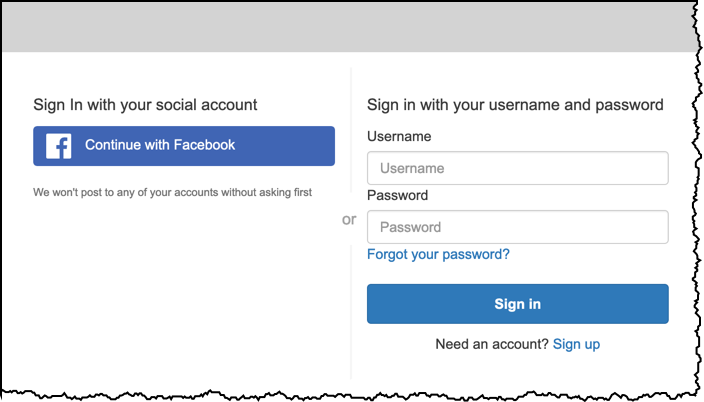
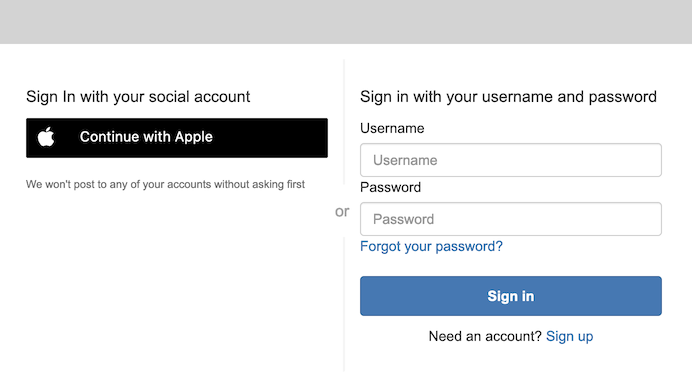
add Sign in with Apple instructions

diff --git a/BOA332/instructions/content/60_add_federation/10_signin_with_apple.md b/BOA332/instructions/content/60_add_federation/10_signin_with_apple.md
@@ -1,0 +1,144 @@
+---
+title : "Sign in With Apple"
+chapter : false
+weight : 10
+---
+
+Nowadays, most applications allow users to sign-in using a third-party identity, defined and managed outside of your app.  This is known as Identity Federation.  Amazon Cognito does support Identity Federation out of the box with [Login With Amazon](https://login.amazon.com/), [Login with Google](https://developers.google.com/identity/sign-in/web/sign-in), [Login with Facebook](https://developers.facebook.com/docs/facebook-login/), [Sign in with Apple](https://aws.amazon.com/blogs/security/how-to-set-up-sign-in-with-apple-for-amazon-cognito/), or any [OIDC](https://openid.net/connect/) or [SAMLv2](https://en.wikipedia.org/wiki/SAML_2.0) compliant identity provider.
+
+Just as for regular sign in flow, you can chose to present to your customers the Cognito Hosted UI or to build your own.  In this workshop, we chose to use the hosted UI because it handles most of the complexities of the OAuth flow for you.
+
+In this section, we're going to add a "Sign in With Apple" button to our application.  Because we are using the Cognito hosted web user interface, there is no code change required to add "Sign in With Apple" or "Login with xxx". This is a two steps process:
+
+- we use our developer account on Apple Developer's portal and we configure "Sign in With Apple" for this application. This involves registering our app and the Cognito URLs on Apple Developer portal, and generate and download a private key to be included in Cognito's configuration.
+
+- we update the Amplify configuration to add Apple as an identity provider.
+
+{{% notice warning %}}
+You must have an account on Apple Developer's portal to continue this section. You can sign in using your Apple ID, the same you are using to connect to iCloud, iMessage, and the likes. Or you can signup and create a free account at [https://appleid.apple.com/account](https://appleid.apple.com/account)
+{{% /notice %}}
+
+## Configure Sign in With Apple on Apple Developer portal
+
+This is a multi-steps process.  First, we are going to create an **App Identifier** for our app. Second, we are going to create a Sign in with Apple **Service Identifier** and configure it with the URLs of our Cognito server. Finally, we are going to **create a secret key** to be shared between Apple and Cognito.
+
+These three steps are done on the Apple Developer's portal.
+
+### Create an Application Identifier
+
+- Using your favorite browser, navigate to Apple Developer's portal at [https://developer.apple.com](https://developer.apple.com). Select the **Account** link on the top right side. Authenticate using your Apple ID credentials.
+
+- On the main page, select **Identifiers* (the second option on the second column).
+
+![Signin with Apple 01](/images/60-10-signin-apple-01.png)
+
+- Select the ⊕ sign next to **Identifiers** to add an identifier for this app.
+
+![Signin with Apple 02](/images/60-10-signin-apple-02.png)
+
+- On the **Register a new identifier** page, ensure **App IDs** is selected and select **Continue**.
+
+- On the **Register a new identifier > Select a type** page, ensure **App* is selected (the default), and select **Continue**.
+
+- Enter "Amplify iOS Workshop" as **Description** and "com.yourcompany.amplify.workshop.landmarks" as **Bundle ID**. Bundle IDs must be globally unique, be sure to chose an available name. Typically, it uses your company reverse DNS name.
+
+![Signin with Apple 03](/images/60-10-signin-apple-03.png)
+
+{{% notice warning %}}
+Take note of the **App ID Prefix (Team ID)** as we will pass this value to Amplify later on
+{{% /notice %}}
+
+- Scroll down that page and select **Sign in with Apple**.  Select **Continue** on the top of the page, then select **Register** on next page. The new identifier should appear in the list of identifiers.
+
+![Signin with Apple 04](/images/60-10-signin-apple-04.png)
+
+## Create a Service Identifier 
+
+Now that our app is registered, let's create a Service Identifier for Sigin with Apple.
+
+- On the **Certificates, Identifiers & Profile** page, select the **App IDs** from down menu on the top right side, then select **Services IDs**.
+
+![Signin with Apple 05](/images/60-10-signin-apple-05.png)
+
+- Select **Register an Services ID** blue button in the middle of the page.
+
+- On the **Register a new identifier** page, select **Services ID** (the second option), the select **Continue**.
+
+- Type "Amplify iOS Workshop" as **Description** and "com.yourcompany.amplify.workshop.landmarks.signin" as **Identifier**. Note that the Service ID here *must be* different than the Application ID created earlier.  I added ".signin" at the end. I then select **Continue**.
+
+![Signin with Apple 06](/images/60-10-signin-apple-06.png)
+
+- On the next page, select **Register**.
+
+- On the **Identifiers > Services ID** page, select the newly created service identifier for this workshop. Ensure **Sign in With Apple** is selected. Then select the **Configure** button.
+
+![Signin with Apple 07](/images/60-10-signin-apple-07.png)
+
+- On the **Web Authentication Configuration** page, select the **Amplify iOS Workshop** for the **Primary App ID**. Then enter the **Domains and Subdomains** value and the **Return URLs**.
+
+Amplify and Cognito shared these values when you added user authentication to the Cognito configuration. You can retrieve them back by typing the `amplify status` command in the project directory.  The value return contains a line like :
+
+```bash
+Hosted UI Endpoint: https://landmarks214c303c-214c303c-dev.auth.eu-central-1.amazoncognito.com/
+```
+
+The **Domains and Subdomains** value is the full host name **without** the `https://`.
+
+The **Return URLs** value is the full URL (**including** `https://`) with `/oauth2/idpresponse` added to it.
+
+![Signin with Apple 08](/images/60-10-signin-apple-08.png)
+
+{{% notice warning %}}
+Pay attention to these two values, an error will prevent Sign in with Apple to work.  Proceed to the next step when you have double checked your input values.
+{{% /notice %}}
+
+- Finally, select **Continue** and **Save** on the next two pages to finalize the Service ID configuration.
+
+## Create a shared private key 
+
+The last step consists in creating a provate key to be shared between Sign in with Apple and Cognito.
+
+-  On the **Certificates, Identifiers & Profile** page, select the **Keys** section on the left navigation menu.
+
+![Signin with Apple 09](/images/60-10-signin-apple-09.png)
+
+- Select **Create a key** blue button in the middle of the page.
+
+- On the **Register a New Key** page, enter a name for that key. I entered **Amplify iOS Workshop Sign In Key** as **Key Name**. Make sure **Sign in with Apple** is selected and select **Configure**.
+
+![Signin with Apple 10](/images/60-10-signin-apple-10.png)
+
+- On the **Configure Key** page, select the **Amplify iOS Workshop** as **Primary App ID**. Then select **Save**.
+
+![Signin with Apple 11](/images/60-10-signin-apple-11.png)
+
+- On next page, select **Continue**, then **Register** to finish creating the key.
+
+- On the **Download Your Key** page, select **Download** to download a `.p8` file containing the private key just created.
+
+![Signin with Apple 12](/images/60-10-signin-apple-12.png)
+
+{{% notice warning %}}
+Take a note of the **Key ID** value and the `.p8` private key, as we will pass them to amplify in the next step.
+{{% /notice %}}
+
+The `.p8` file you just downloaded contains a private key in PEM format. This is a multi-line base64 notation. In the next section, Amplify command line will ask for this value as a **single-line** input.
+
+To convert the `.p8` file content to a single line, you may use this bash command and paste the rwsult in the text editor.
+
+```bash
+cat ~/Downloads/AuthKey_*.p8 | tr -d '\n' | pbcopy 
+```
+
+### Collect all IDs required by Amplify
+
+At the end of this section, you must have kept four values to pass to Amplify command line. The values I collected from the above example are : 
+
+- the **Service ID** (the one finishing with `.signin`) : `com.yourcompany.amplify.workshop.landmarks.signin`
+- the **Team ID** : `56******`
+- the **Key ID** : `3HL6GKYJ5L`
+- the **private key** in one single line PEM format : `-----BEGIN PRIVATE KEY-----MIG...(redacted)...gty6P-----END PRIVATE KEY-----`
+
+The values will be different for you.
+
+Next step is to update AWS Amplify's configuration to include Sign in With Apple.

diff --git a/BOA332/instructions/content/60_add_federation/30_hosted_ui.md b/BOA332/instructions/content/60_add_federation/30_hosted_ui.md
@@ -1,8 +1,8 @@
-+++
-title = "Federation with Hosted UI"
-chapter = false
-weight = 30
-+++
+---
+title : "Federation with Hosted UI"
+chapter : false
+weight : 30
+---
 
 The easiest way to present users a GUI that includes identity federation is to use Cognito Hosted UI.  Cognito Hosted UI automatically adds "Continue With XXX" button based on the backend configuration.
 
@@ -11,11 +11,11 @@ You can test the Hosted UI by clicking on the link given by Amplify CLI at the e
 ```text
 https://amplifyiosworkshopaf0xxxxx-xxxxxxxx-dev.auth.eu-west-1.amazoncognito.com/login?response_type=code&client_id=58xxxxxxxxxxxxxxjhn&redirect_uri=landmarks://
 ```
-The Hosted UI now shows the "Login With Facebook" button.
+The Hosted UI now shows the "Continue With Apple" button.
 ![federation hosted ui](/images/60-30-hostedui-1.png)
 
 {{% notice tip %}}
-If you try to authenticate using Facebook using the above URI from a browser, you will be directed to Facebook's page and be able to enter your email address and password.  However the process will not terminate completly as the `redirect_uri` in the URL is an iOS only URI that we gave for our app (`landmarks://`)  The final redirection will only work in our mobile app.
+If you try to authenticate using Sign in with Apple using the above URI from a browser, you will be directed to Apple Sign in page and be able to enter your email address and password.  However the process will not terminate completly as the `redirect_uri` in the URL is an iOS-only URI that we gave for our app (`landmarks://`)  The final redirection will only work in our mobile app.
 {{% /notice %}}
 
 There is no code change to make this happen in the iOS app, as it using the Cognito hosted web UI too.
@@ -23,15 +23,22 @@ There is no code change to make this happen in the iOS app, as it using the Cogn
 ## Build and Test
 
 Build and launch the application to verify everything is working as expected. Click the **build** icon <i class="far fa-caret-square-right"></i> or press **&#8984;R**.
-![build](/images/20-10-xcode.png)
+![build](/images/20-20-xcode.png)
 
-If you are still authenticated, click **Sign Out** and click the user badge to sign in again. You should see the Amazon Cognito hosted UI.  Click **Continue With Facebook**, follow the Facebook login process, including accepting Amplify iOS Workshop app to access your profile data and, eventually, you should see the Landmark list.
-![customized drop in UI](/images/60-30-hostedui-2.png)
+If you are still authenticated, click **Sign Out** and click the user badge to sign in again. You should see the Amazon Cognito hosted UI.  Click **Continue With Apple**, follow the Apple login process, including multi-factor authentication and email settings and, eventually, you should see the Landmark list.
 
 At this stage, no code change is required if you decide to add other identity providers to your backend configuration.  The Hosted UI will automatically propose "Login with XXX" buttons based on the providers configured on the backend.  All the interactions between the identity provider and Cognito happen on the backend, no client code is involved.
 
+Hosted UI | Sign in sequence | MFA
+:---: | :---: |  :---: |
+![Auth Sequence 01](/images/60-30-hostedui-2.png) | ![Auth Sequence 02](/images/60-30-hostedui-3.png) | ![Auth Sequence 3](/images/60-30-hostedui-4.png) |
+**Trust Browser** | **Email Config** | **App launched**
+![Auth Sequence 04](/images/60-30-hostedui-5.png) | ![Auth Sequence 05](/images/60-30-hostedui-6.png) | ![Auth Sequence 6](/images/60-30-hostedui-7.png) |
+
 ## Checking Amazon Cognito Identities
 
-By choosing **Continue with Facebook**, you actually created a second identity in your backend.  As seen from Amazon Cognito, the user you created earlier and the Facebook federated user are two different identities.  You can connect to Amazon Cognito console, click on the user pool name (`amplifyiosworkshopxxxxx`), select **User and Groups** on the left menu to verify two identities have been created:
+By choosing **Continue with Apple**, you actually created a second identity to represent you in your backend.  As seen from Amazon Cognito, the user you created earlier and the Apple federated user are two different identities.  You can connect to Amazon Cognito console, click on the user pool name (`amplifyiosworkshopxxxxx`), select the **Users** tab to verify two identities have been created:
 
 ![cognito identities](/images/60-30-hostedui-30.png)
+
+Congrats! 🎉 You just added Sign in with Apple to your app, without changing a single line of code.

diff --git a/BOA332/instructions/content/60_add_federation/20_amplify.md b/BOA332/instructions/content/60_add_federation/20_amplify.md
@@ -1,15 +1,15 @@
-+++
-title = "Update Amplify"
-chapter = false
-weight = 20
-+++
+---
+title : "Update Amplify"
+chapter : false
+weight : 20
+---
 
-Amazon Cognito does support Identity Federation out of the box with [Login With Amazon](https://login.amazon.com/), [Login with Google](https://developers.google.com/identity/sign-in/web/sign-in), [Login with Facebook](https://developers.facebook.com/docs/facebook-login/), [Signin with Apple](https://aws.amazon.com/blogs/security/how-to-set-up-sign-in-with-apple-for-amazon-cognito/), or any [OIDC](https://openid.net/connect/) or [SAMLv2](https://en.wikipedia.org/wiki/SAML_2.0) compliant identity provider.  
+Amazon Cognito does support Identity Federation out of the box with [Login With Amazon](https://login.amazon.com/), [Login with Google](https://developers.google.com/identity/sign-in/web/sign-in), [Login with Facebook](https://developers.facebook.com/docs/facebook-login/), [Sign in with Apple](https://aws.amazon.com/blogs/security/how-to-set-up-sign-in-with-apple-for-amazon-cognito/), or any [OIDC](https://openid.net/connect/) or [SAMLv2](https://en.wikipedia.org/wiki/SAML_2.0) compliant identity provider.  
 
-We use AWS Amplify command line to update the Amazon Cognito configuration on the backend and add support for Login With Facebook.
+We use AWS Amplify command line to update the Amazon Cognito configuration on the backend and add support for Sign In with Apple.
 
 {{% notice warning %}}
-It is important to not overwrite the values we entered previously, be sure to follow instructions carefully.
+There are four values to be collected from previous step.  Be sure you have it all in a text editor before starting this section
 {{% /notice %}}
 
 In a terminal, type:
@@ -21,13 +21,17 @@ amplify update auth
 
 1. What do you want to do? Choose **Update OAuth social providers** and **press enter** 
 
-1. Select the identity providers you want to configure for your user pool:  Use the arrow keys to highlight **Facebook** and press **space**, then press enter.
+2. Select the identity providers you want to configure for your user pool:  Use the arrow keys to highlight **Sign in with Apple** and press **space**, then **press enter**.
 
-1. Enter your Facebook App ID for your OAuth flow:.  Enter the **Facebook App Id** that you noted in previous section. (for example `2600000000004701`)
+3. Enter your Services ID for your OAuth flow. Type your **Service ID** and **press enter** (in my example `com.amazonaws.amplify.workshop.landmarks.signin`).
 
-1. Enter your Facebook App Secret for your OAuth flow. Enter the **Facebook App Secret** that you noted in previous section. (for example `89xxxxxxxxxxxxxxxxxxxxxxxxxx605`)
+4. Enter your Team ID for your OAuth flow:  Type your **Team ID** and **press enter** (in my example `56********`).
 
-`amplify` creates the required resources to depoy your storage service in the cloud.
+5. Enter your Key ID for your OAuth flow:  Type your **Key ID** and **press enter** (in my example `3HL6GKYJ5L`)
+
+6. Enter your Private Key for your OAuth flow: Type your **private key as a one-line PEM format** (in my example `-----BEGIN PRIVATE KEY-----MIG  (redacted)  y6P-----END PRIVATE KEY-----%`)
+
+`amplify` creates the required resources to deploy the Sign in with Apple configuration in the cloud.
 
 ![amplify update auth](/images/60-20-amplify-1.png)
 
@@ -39,10 +43,14 @@ In a Terminal, assuming you are still in your project directory, type:
 amplify push
 ```
 
-1. Are you sure you want to continue? Review the table and verify the Auth service is being Updated.  Accept the default (**Yes**) and press enter.
+1. Are you sure you want to continue? Review the table and verify the Auth service is being Updated.  Accept the default (**Yes**) and **press enter**.
 
 Amplify updates the backend infrastructure, it adds the federation configuration to Amazon Cognito.  After a while, you should see the familiar message :
 
 ```text
-✔ All resources are updated in the cloud
+Deployment completed.
 ```
+
+![amplify update auth](/images/60-20-amplify-2.png)
+
+That's it !  There is no change required in the code. The federation happens between Cognito and Apple on the server side. We can start our app and start to test immediately.

diff --git a/BOA332/README.md b/BOA332/README.md
@@ -6,7 +6,11 @@ Before re:Invent 2022, current builds are available at [https://main.d1p0aatx158
 
 ## In progress (status 10/3/2022)
 
-[] Refactoring workshop instructions to take into account code modifications
+[] Refactoring workshop instructions for Signin With Apple
+
+**October 10 2022**
+
+- Refactoring workshop instructions to take into account code modifications (sections 1-5)
 
 **September 14 2022**
 
@@ -31,18 +35,18 @@ Before re:Invent 2022, current builds are available at [https://main.d1p0aatx158
 
 ## TODO - Code 
 
-[] Resolve TODO left in the code  
+[X] ~~Resolve TODO left in the code~~
 
 ## TODO - Instructions 
 
-[] Update instructions to support new AWS Event Engine  
-[] Update instructions to use SPM vs CocoaPods 
-[] Update Signin part to use "Signin With Apple" instead of "Login with facebook"  
+[] Update instructions to support new AWS Workshop Studio 
+[X] ~~Update instructions to use SPM vs CocoaPods~~
+[X] ~~Update Signin part to use "Signin With Apple" instead of "Login with facebook"~~
+[] Update instructions to add custom signin UI
 [] Use Amplify Datastore rather than straigth API calls ?  (if we have time)
 
 ## TODO - Infrastructure 
 
-[] Deploy on new AWS Event Engine  
 [X] refresh hugo version in local docker (run.sh)  
 [X] refresh hugo on Amplify Build (buildspec.yml)  
 [] Deploy on https://workshop.aws  

diff --git a/BOA332/instructions/content/60_add_federation/_index.md b/BOA332/instructions/content/60_add_federation/_index.md
@@ -1,12 +1,14 @@
-+++
-title = "Add Identity Federation"
-chapter = true
-weight = 60
-pre = "<b>6. </b>"
-+++
+---
+title : "Add Identity Federation"
+chapter : true
+weight : 60
+pre : "<b>6. </b>"
+---
 
 ### Section 6
 
 ## Add Identity Federation
 
-{{% children showhidden="false" %}}
+* [Prepare Signin With Apple](/60_add_federation/10_signin_with_apple.html)
+* [Update Amplify](/60_add_federation/20_amplify.html)
+* [Federation with Hosted UI](/60_add_federation/30_hosted_ui.html)
